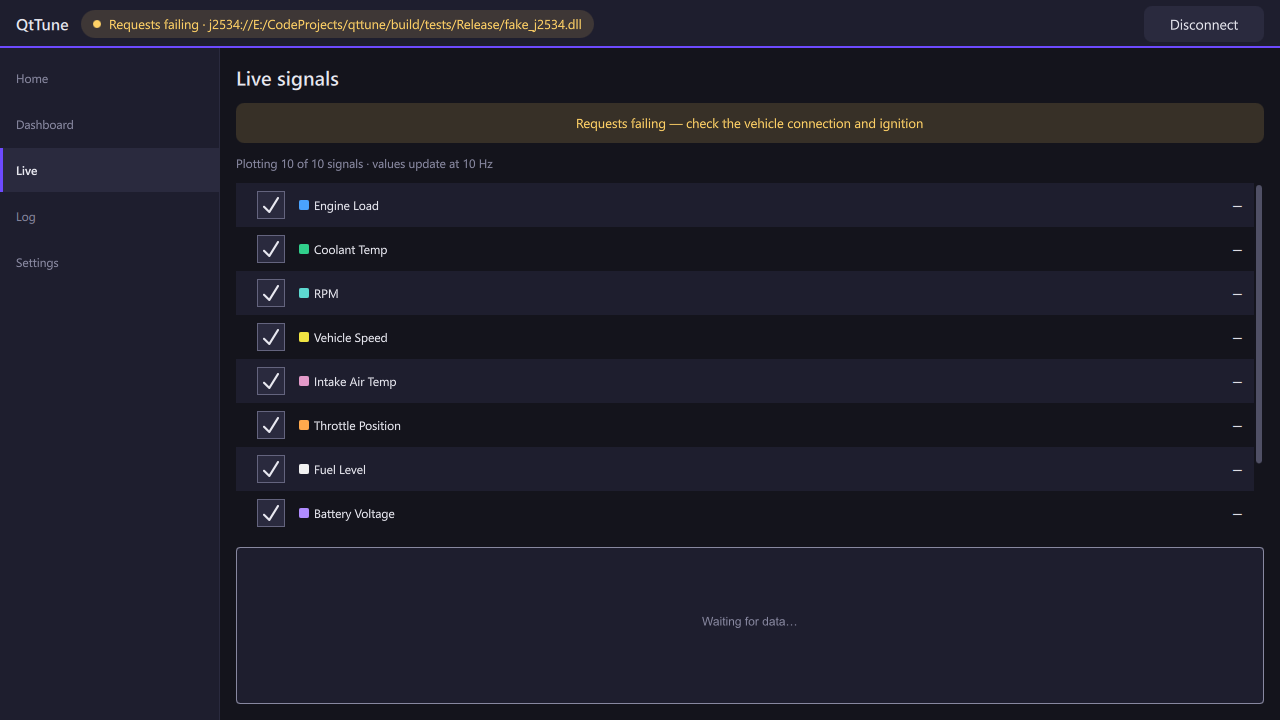
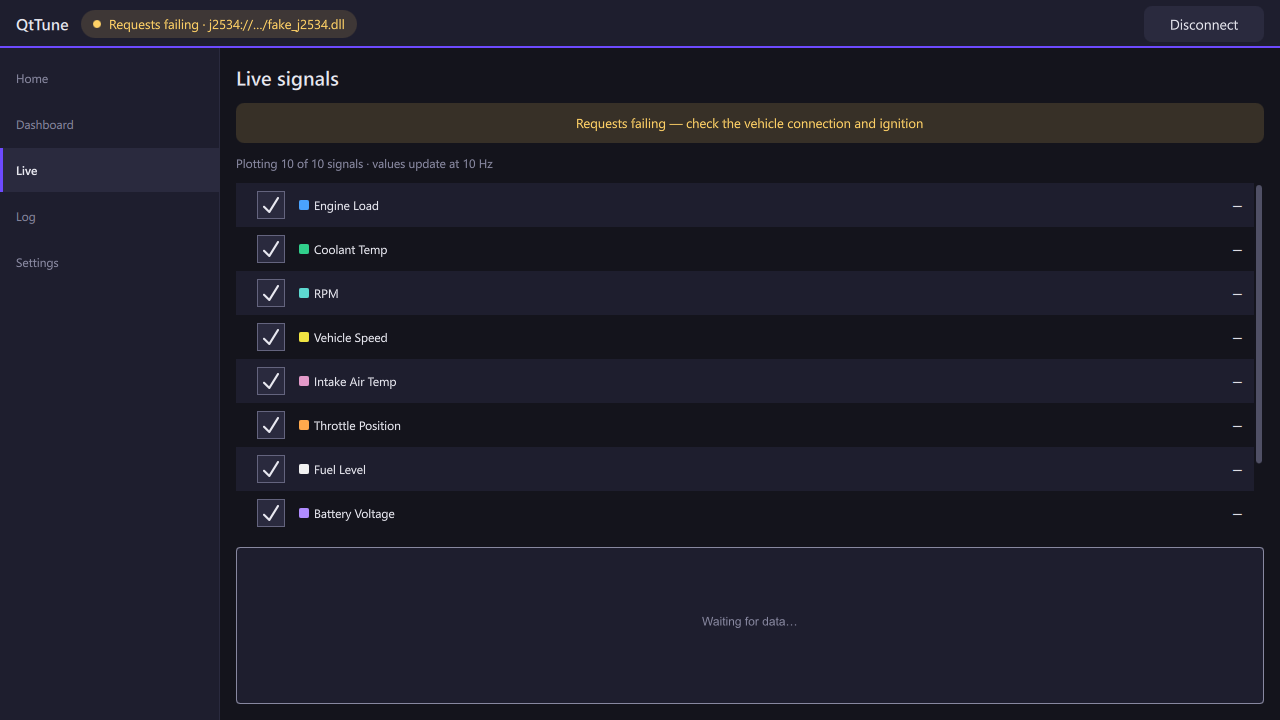
fix(ui): the header names a direct-load DLL, not its folder
A j2534:// URI that loads a DLL by path showed the whole path in the
header pill and the Dashboard header, so a local folder reached every
screenshot and a long path elided the DLL's name off the pill. The
bridge's uriLabel cuts such a selector to j2534://…/<file>.dll and
keeps the query; vendor names and mock:// pass unchanged. Settings,
the activity log and recordings keep the whole URI.

Changed region(s): [[0.2188, 0.0, 0.4688, 0.0611], [0.0312, 0.1528, 0.0625, 0.1833]]

diff --git a/tests/qml/tst_linkhealth.qml b/tests/qml/tst_linkhealth.qml
@@ -5,7 +5,9 @@
 //          label and its activity log. Disconnected and ok everywhere
 //          (mock://demo); quiet, fault and requests on Windows, through
 //          the fake vendor DLL in-proc with a knob armed, as the manual
-//          smoke recipe in docs/testing.md does.
+//          smoke recipe in docs/testing.md does. The pill and the
+//          Dashboard show the fake's direct-load URI cut to its file
+//          name (Bridge.uriLabel); Settings shows it whole.
 
 import QtQuick
 import QtTest
@@ -78,10 +80,17 @@ TestCase {
         const tone = Theme.linkColor(state)
         const label = Theme.linkLabel(state)
         const uri = Bridge.currentUri
+        // The pill and the Dashboard show the label: the fake's URI is
+        // a direct-load path, which they cut to its file name
+        const shown = Bridge.uriLabel
+        if (uri.startsWith("j2534://") && uri.includes("/"))
+            verify(shown.startsWith("j2534://…/fake_j2534.dll"), "label cuts the path: " + shown)
+        else
+            compare(shown, uri, "label is the URI")
 
         sameColor(find(main.contentItem, "linkPill").tone, tone, "header pill")
         compare(find(main.contentItem, "linkPillText").text,
-                Bridge.connected ? label + " · " + uri : label, "header pill")
+                Bridge.connected ? label + " · " + shown : label, "header pill")
 
         const home = showPage(main, "homePage")
         sameColor(find(home, "linkDot").color, tone, "Home dot")
@@ -90,7 +99,7 @@ TestCase {
         const dashboard = showPage(main, "dashboardPage")
         sameColor(find(dashboard, "linkDot").color, tone, "Dashboard dot")
         const dashboardLabel = find(dashboard, "linkLabel")
-        compare(dashboardLabel.text, state === "ok" ? "Live · " + uri : label, "Dashboard label")
+        compare(dashboardLabel.text, state === "ok" ? "Live · " + shown : label, "Dashboard label")
         sameColor(dashboardLabel.color, tone, "Dashboard label")
 
         const live = showPage(main, "livePage")

diff --git a/app/qml/Main.qml b/app/qml/Main.qml
@@ -169,7 +169,7 @@ ApplicationWindow {
                                     : Bridge.disconnecting ? qsTr("Disconnecting…")
                                     : Bridge.connected
                                       ? qsTr("%1 · %2").arg(Theme.linkLabel(Bridge.linkState))
-                                                        .arg(Bridge.currentUri)
+                                                        .arg(Bridge.uriLabel)
                                       : Theme.linkLabel(Bridge.linkState)
                             }
                         }

diff --git a/app/qml/DashboardPage.qml b/app/qml/DashboardPage.qml
@@ -162,7 +162,7 @@ Page {
                     // the richer URI text. Long-form detail (episode
                     // counts, error codes) stays in LiveView's banner.
                     text: Bridge.linkState === "ok"
-                          ? qsTr("Live · %1").arg(Bridge.currentUri)
+                          ? qsTr("Live · %1").arg(Bridge.uriLabel)
                           : Theme.linkLabel(Bridge.linkState)
                     font.pixelSize: 13
                     color: Theme.linkColor(Bridge.linkState)

diff --git a/tests/test_bridge.cpp b/tests/test_bridge.cpp
@@ -1497,6 +1497,49 @@ TEST(BridgeTest, CurrentUriTracksConnectState)
     EXPECT_FALSE(bridge.connected());
 }
 
+TEST(BridgeTest, UriLabelCutsADirectLoadPathToItsFileName)
+{
+    const QString dots = QString(QChar(0x2026));
+    // A path selector, either separator, a drive or UNC root, the query kept
+    EXPECT_EQ(QtTuneBridge::uriLabelFor(
+                  QStringLiteral("j2534://E:/dev/build/fake_j2534.dll")),
+              QStringLiteral("j2534://") + dots +
+                  QStringLiteral("/fake_j2534.dll"));
+    EXPECT_EQ(QtTuneBridge::uriLabelFor(QStringLiteral(
+                  "j2534://C:\\Program "
+                  "Files\\Vendor\\vendor32.dll?profile=raw&filter=0x7E8")),
+              QStringLiteral("j2534://") + dots +
+                  QStringLiteral("/vendor32.dll?profile=raw&filter=0x7E8"));
+    EXPECT_EQ(QtTuneBridge::uriLabelFor(
+                  QStringLiteral("j2534://\\\\server\\share\\pt.dll")),
+              QStringLiteral("j2534://") + dots + QStringLiteral("/pt.dll"));
+
+    // A '/' in the query isn't a path
+    EXPECT_EQ(QtTuneBridge::uriLabelFor(
+                  QStringLiteral("j2534://OBDX Pro - VX?did=a/b")),
+              QStringLiteral("j2534://OBDX Pro - VX?did=a/b"));
+    // Vendor names, the first device, the mock and nothing pass unchanged
+    for (const char* uri :
+         {"j2534://OBDX Pro - VX", "j2534://", "j2534://?probe=0",
+          "mock://demo", "mock://a/b", ""}) {
+        EXPECT_EQ(QtTuneBridge::uriLabelFor(QString::fromLatin1(uri)),
+                  QString::fromLatin1(uri));
+    }
+
+    // The property follows currentUri
+    QtTuneBridge bridge;
+    EXPECT_TRUE(bridge.uriLabel().isEmpty());
+    int changed = 0;
+    QObject::connect(&bridge, &QtTuneBridge::currentUriChanged,
+                     [&changed]() { ++changed; });
+    ASSERT_TRUE(bridge.connectSession("mock://label").isEmpty());
+    EXPECT_EQ(bridge.uriLabel(), QStringLiteral("mock://label"));
+    EXPECT_EQ(changed, 1);
+    ASSERT_TRUE(disconnectAndWait(bridge));
+    EXPECT_TRUE(bridge.uriLabel().isEmpty());
+    EXPECT_EQ(changed, 2);
+}
+
 TEST(BridgeTest, AsyncConnectCompletesOffGuiThread)
 {
     QtTuneBridge bridge;

diff --git a/app/qttunebridge.cpp b/app/qttunebridge.cpp
@@ -5,7 +5,9 @@
 //          refresh, link-state mapping, the activity log's session and
 //          ECU lines, session recording (BridgeTest.Recording*), display
 //          units on the rows, the chart and not the recording
-//          (BridgeTest.UnitSystem*). QML rendering: manual smoke.
+//          (BridgeTest.UnitSystem*), the URI label
+//          (BridgeTest.UriLabelCutsADirectLoadPathToItsFileName). QML
+//          rendering: manual smoke.
 
 #include "qttunebridge.h"
 #include "ecuio/version.h"
@@ -1285,6 +1287,30 @@ QString QtTuneBridge::channelIdentityText(const ecuio_channel_identity_t& s)
     }
     return QStringLiteral("ECU %1 identity: ").arg(hexId(s.rx_id)) +
            parts.join(QStringLiteral("; "));
+}
+
+/* The URI as the header pill and the Dashboard show it. A direct-load
+ * selector (one holding a separator, as resolve_uri tells a path from a
+ * vendor name) is cut to the DLL's file name, j2534://…/vendor.dll, so
+ * a local folder never reaches the screen or a screenshot, and a long
+ * path can't elide the DLL off the pill's end. The query stays; every
+ * other URI is unchanged. Settings and the activity log keep it whole. */
+QString QtTuneBridge::uriLabelFor(const QString& uri)
+{
+    const QString scheme = QStringLiteral("j2534://");
+    if (!uri.startsWith(scheme)) {
+        return uri;
+    }
+    const qsizetype query = uri.indexOf(QLatin1Char('?'), scheme.size());
+    const qsizetype end = query < 0 ? uri.size() : query;
+    const QString selector = uri.mid(scheme.size(), end - scheme.size());
+    const qsizetype sep = std::max(selector.lastIndexOf(QLatin1Char('/')),
+                                   selector.lastIndexOf(QLatin1Char('\\')));
+    if (sep < 0) {
+        return uri;
+    }
+    return scheme + QChar(0x2026) + QLatin1Char('/') + selector.mid(sep + 1) +
+           uri.mid(end);
 }
 
 /* The published state strings, in one place; QML's Theme.linkColor and

diff --git a/app/qttunebridge.h b/app/qttunebridge.h
@@ -219,6 +219,8 @@ class QtTuneBridge : public QObject
     Q_PROPERTY(int signalBatchCount READ signalBatchCount NOTIFY signalBatchChanged)
     Q_PROPERTY(SignalListModel* signalModel READ signalModel CONSTANT)
     Q_PROPERTY(QString currentUri READ currentUri NOTIFY currentUriChanged)
+    // currentUri as the header pill and the Dashboard show it (uriLabelFor)
+    Q_PROPERTY(QString uriLabel READ uriLabel NOTIFY currentUriChanged)
     Q_PROPERTY(QString linkState READ linkState NOTIFY linkStateChanged)
     Q_PROPERTY(int linkErrorCode READ linkErrorCode NOTIFY linkStateChanged)
     Q_PROPERTY(int errorEpisodes READ errorEpisodes NOTIFY linkStateChanged)
@@ -253,6 +255,7 @@ public:
     int signalBatchCount() const { return m_signalBatchCount; }
     SignalListModel* signalModel() const { return m_signalModel; }
     QString currentUri() const { return m_currentUri; }
+    QString uriLabel() const { return uriLabelFor(m_currentUri); }
     bool connecting() const { return m_connecting; }
     bool disconnecting() const { return m_disconnecting; }
     void dispatchFrameForTesting(const ecuio_frame_t& frame);
@@ -260,6 +263,7 @@ public:
     ecuio_session_t* pendingSessionForTesting() const { return m_pendingSession.load(); }
     QString linkState() const;
     static QString linkStateForError(int32_t errorCode);  /* code → state string; static so tests need no session */
+    static QString uriLabelFor(const QString& uri);  /* a direct-load DLL path cut to its file name */
     static QString sessionInfoText(const ecuio_session_info_t& info);  /* the activity log's "Session:" line */
     static QString channelSupportText(const ecuio_channel_support_t& support);  /* its "ECU 0x…:" lines */
     static QString channelIdentityText(const ecuio_channel_identity_t& identity);  /* its "ECU 0x… identity:" lines */

diff --git a/docs/testing.md b/docs/testing.md
@@ -211,13 +211,13 @@ view. `scripts/coverage.sh` runs the same measurement locally
 | Live's trace styles are keyed by model row: colours from `Theme.seriesColors`, solid within the palette, and past it no two rows that share a colour share a dash. Under `mock://demo` each row's swatch shows its row's trace colour, filled while plotted and hollow while not, the other rows unchanged. The banner's message for each link state, an unknown one as degraded | `QmlTest.liveview` |
 | The strip chart's layout, on synthetic series: nothing to draw without a time span; the plot leaves room for the widest label, capped at 40 % of the width; each trace scales to its own range, widened to a minimum span of displayed digits (two units over a twenty-unit span take a tenth of the height, 0.4 V of 2.0 V a fifth), while a trace that never moves by half a digit takes a lane of its own; a gap past the threshold breaks a trace into segments and a shorter pause doesn't; the time ticks step 1, 2 or 5 s back from the newest sample, with no caption where there's no room; value labels are nudged a line apart and kept inside the plot | `QmlTest.chartlayout` (`ChartLayout`, no bridge) |
 | `SignalHub` finds a signal by the first of a `Tap`'s names the set provides, else null, mirrors the model's values, and follows a profile switch. Each Dashboard gauge reads its signal by the name the mock and `obd2` sets share. It says "no session", then "waiting for data" until the first 100 ms batch, then nothing, with the value at the signal's decimal places in its unit; after a switch to `?profile=raw`, "not in profile" | `QmlTest.dashboard` |
-| Every link-health surface in the app's window (`Main`), in colour and words: the header pill, Home's status card, the Dashboard header, Live's banner, Settings' status label and the activity log's link line. Disconnected and ok (`mock://demo`) everywhere; quiet, fault and requests through the fake in-proc with its knob armed; a disconnect after a fault shows plain disconnected again | `QmlTest.linkhealth` (the fake's cases on Windows) |
+| Every link-health surface in the app's window (`Main`), in colour and words: the header pill, Home's status card, the Dashboard header, Live's banner, Settings' status label and the activity log's link line. Disconnected and ok (`mock://demo`) everywhere; quiet, fault and requests through the fake in-proc with its knob armed; a disconnect after a fault shows plain disconnected again. The pill and the Dashboard header show a direct-load URI cut to its DLL's file name (`j2534://…/fake_j2534.dll`, the query kept), Settings the whole URI | `QmlTest.linkhealth` (the fake's cases on Windows); the cut itself, `BridgeTest.UriLabelCutsADirectLoadPathToItsFileName`. **Both failed with the label passing every URI through** |
 | A binding error in the app's QML fails the page tests: they treat any warning from `qrc:/qt/qml/QtTune/` as a failure. That catches a removed delegate's binding, such as a Live row's swatch reading the palette at index -1 while a connect resets the model | `QmlTest.liveview`, `.dashboard`, `.linkhealth`, `.settings` (`failOnWarning`) |
 | Dashboard: every gauge the mock set feeds sweeps under `mock://demo`; a gauge whose signal the profile lacks reads "not in profile" (the mock set feeds every gauge, so `?profile=raw` is what shows it); the grid collapses from 4 to 2 columns across 760 px and tightens its gaps at 600 px; fault and quiet states tint correctly; the temperature rings start at 0 °C, so a cold engine reads on the scale; unticking a row on Live leaves its gauge live; when the stacked arrangement would overflow a short, wide page it switches to the wide one (dials and a 2 × 2 tile block in one row, sized to the height), and the scroll bar shows while the page overflows | Manual smoke, 2026-10-20 (`40e51ce`; quiet and fault through the knob recipe below). The header, which takes its dot and label from `Theme`, was re-run 2026-10-21 (`55373f4` plus the reordered series palette): ok ("Live · mock://demo", green), quiet, requests, fault and disconnected, plus "not in profile" on every gauge under `?profile=raw`. Re-run later on 2026-10-21 for the rings and the untick (working tree on `d1c20c0`): coolant 53 °C and oil 24 °C on 0–130 and 0–160 scales under mock; with RPM unticked the tach kept moving and recorded a 7,000 peak; every gauge found its signal under `obd2` through the x64 fake. Re-run 2026-10-22 for the arrangements (`0a94049`, the run-qttune driver's `resize`): the wide one at 1280 × 650 (a 1080p laptop at 150 %) and 1280 × 800 with every gauge on screen, stacked at 1700 × 980 as before, narrow at 860 × 640 and 600 × 700 with the scroll bar shown. `SignalHub`'s lookup and each gauge's note are `QmlTest.dashboard`'s too (above); the gauges' drawing and the arrangements are manual only |
 | Live: the list sizes to its rows up to a cap, then scrolls with the bar pinned on; each row's swatch matches its trace; rows past `Theme.seriesColors` reuse its colours with a dashed trace (under `obd2`, the last two rows); values at each def's decimal places; the chart prints each trace's value at its right-hand end, nudged apart, with a sample of its stroke, has a seconds axis, and gives each flat trace its own lane in list order; disconnected, a dim message and a Connect button | Manual smoke, 2026-10-21 (`55373f4` plus the reordered series palette): all eight mock rows fit and each swatch matches its trace; under `obd2` through the x64 fake, ten rows with the scroll bar pinned on, and MAF drawn dashed in row 1's colour. Re-run later on 2026-10-21 (working tree on `d1c20c0`): `745 RPM`, `49 °C`, `0.0 %`, `7.0 g/s` under mock, with the three flat mock traces in separate lanes; under the fake, all ten flat traces in their own lanes, top down in list order, Battery Voltage at `13.87 V`, and the two dashed rows' labels showing the dash. The swatches, row colours and dashes are `QmlTest.liveview`'s too (above). The chart's drawing (traces, labels, lanes, the time axis) is manual only; `BridgeTest` pins the `row` and `decimals` it keys on |
 | Settings activity-log lines carry local `HH:MM:SS.mmm` stamps; after Disconnect and a new connect, the Log page holds only the new session's frames | Manual run, 2026-10-22 (working tree on `c029caa`, `mock://demo`, the run-qttune driver) |
 | Recording end to end through the x86 surrogate: Settings shows "Recording to Documents\QtTune\recordings\…" with no account name, and the switch is disabled while connected; the folder held 55 frames and 55 values from the fake; that spawn's session log read "frame logging on" and carried its frame lines | Manual run, 2026-10-22 (working tree on `839b176`, the x86 fake through the app's deployed surrogate, the run-qttune driver; the test recording deleted afterwards). On the OBDX Pro VX, 2026-10-22 (`0a8beae`): one recording per connect across six connects, and frame logging on in each spawn's session log ([sheet](bench-sessions/2026-10-22.md)) |
-| App chrome: the header holds the name, a link pill (state and URI, eliding first) and one button (Connect… opens Settings; Disconnect); the sidebar is one full-height panel; below 720 px the tab bar underlines the selected tab; Settings sizes the device list to its rows and gives the activity log the rest, and on a short window scrolls, the log keeping a 200 px minimum; Log shows `s.mmm` times, spaced uppercase payloads and a full 29-bit ID, and Pause holds the table while the count keeps rising | Manual smoke, 2026-10-21 (working tree on `d1c20c0`, `mock://demo` and the x64 fake, the run-qttune driver), at 1280 and 400 px; Settings re-run 2026-10-22 at 1280 × 650 (`0a94049`). Not checked: keyboard focus rings (the driver sends no keys) and an OS light colour scheme |
+| App chrome: the header holds the name, a link pill (state and URI, a direct-load path cut to the DLL's name; eliding first) and one button (Connect… opens Settings; Disconnect); the sidebar is one full-height panel; below 720 px the tab bar underlines the selected tab; Settings sizes the device list to its rows and gives the activity log the rest, and on a short window scrolls, the log keeping a 200 px minimum; Log shows `s.mmm` times, spaced uppercase payloads and a full 29-bit ID, and Pause holds the table while the count keeps rising | Manual smoke, 2026-10-21 (working tree on `d1c20c0`, `mock://demo` and the x64 fake, the run-qttune driver), at 1280 and 400 px; Settings re-run 2026-10-22 at 1280 × 650 (`0a94049`). Not checked: keyboard focus rings (the driver sends no keys) and an OS light colour scheme |
 | Zoom: Settings' Display row steps `Theme.zoom` from 50 % to 200 %; the whole UI reflows at the zoomed size, a badge shows the level, and the zoom survives a restart | Manual smoke, 2026-10-22 (`0a94049`, the run-qttune driver): two steps down to 80 % reflowed the Dashboard at the larger layout size, its tiles showing their descriptions, a relaunch came back at 80 % (`HKCU\Software\QtTune\QtTune\ui`), and Reset showed "Zoom 100 %". Not checked by the driver: the Ctrl + / Ctrl − / Ctrl 0 shortcuts (it sends no keys) and the window's opening size on a 1280 × 720 screen |
 | QML reaches the bridge as the `Bridge` singleton (`app/bridgesingleton.h`), not a context property: every page binds through it, and qmllint resolves its properties | Manual smoke, 2026-10-21: `mock://demo` streaming on Home, Dashboard, Live and Log, and the x86 fake through the app's own deployed surrogate (2000 RPM decoded, the spawn line naming the exe). `all_qmllint` went from 103 `[unqualified]` warnings to 7, all on LogPage's delegate roles |
 | Link-health UI: quiet/fault/degraded banner, activity-log transitions, "—" cells, stale dimming, the arbId column | The banner, the other surfaces and the log lines are `QmlTest.linkhealth`'s, in-proc (above); Live's "—" cells, stale dimming and the arbId column are manual only. Manual smoke, 2026-10-20 (fake quiet/fault via `ECUIO_FAKE_READ_STATUS`; mock; recipe below). The first run recorded dimming and the arbId column as working when the code couldn't produce either (dimming keyed on value changes; the ID column bound a misspelled role). Both rows were re-run and passed after the fixes, the arbId row through the x86 surrogate. |
